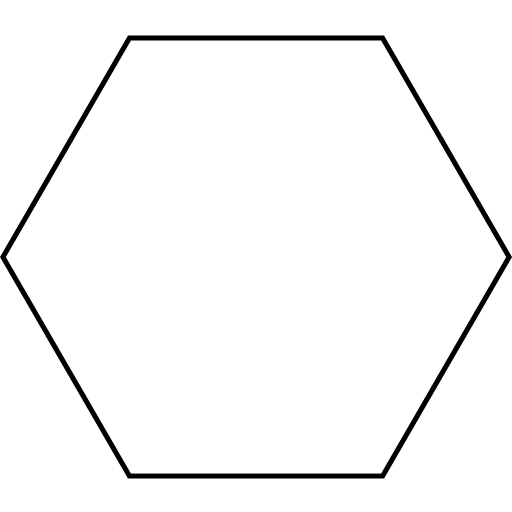
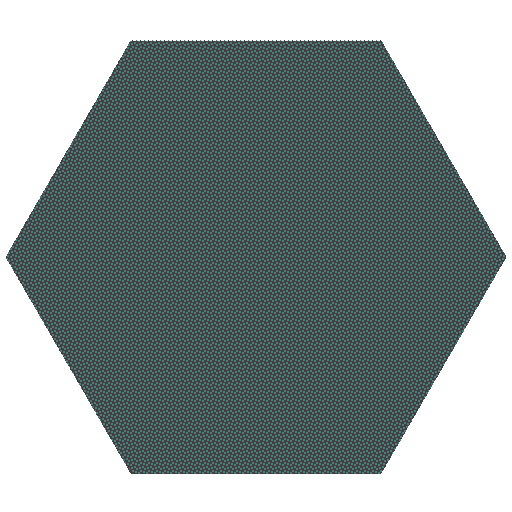
I'm so tired please help

diff --git a/HuntTheWumpus/HuntTheWumpus/GameControl.cs b/HuntTheWumpus/HuntTheWumpus/GameControl.cs
@@ -17,12 +17,13 @@ namespace HuntTheWumpus
     /// </summary>
     public class GameControl : Microsoft.Xna.Framework.GameComponent
     {
-        public static Point[] vertices = { new Point(130, 3), new Point(380, 3), new Point(509, 221), new Point(380, 374), new Point(130, 374), new Point(4, 206) };
+        public static Point[] vertices = { new Point(4, 256), new Point(130, 38), new Point(380, 38), new Point(509, 256), new Point(380, 474), new Point(130, 474)};
         public static List<RoomImage> roomImages;
         public static Game game;
         public static Cave cave;
         public static Player player = new Player(game);
 
+        Texture2D background;
         Texture2D introImage;
         Texture2D highscoreImage;
         public Texture2D arrow;
@@ -55,11 +56,14 @@ namespace HuntTheWumpus
                 for (int y = 0; y < cave.Height; y++) {
                     _position.X = (x * 380);
                     _position.Y = (y * 438) - ((x % 2) * 219);
-                    cave.Rooms[x,y].image = new RoomImage(_position,"Images/hex","Images/hex",game);
+                    cave.Rooms[x,y].image = new RoomImage(_position,"Images/hex","Images/hex2",game);
+                    cave.Rooms[x, y].image.setExits(cave.Rooms[x, y].Exits);
                     roomImages.Add(cave.Rooms[x, y].image);
                 }
 
             }
+
+            cave.Rooms[cave.currentRoom.X, cave.currentRoom.Y].image.revealed = true;
 
             base.Initialize();
         }
@@ -76,7 +80,7 @@ namespace HuntTheWumpus
             // TODO: Add your update code here
             player.speed.X = 0;
             player.speed.Y = 0;
-            
+
 
 
             // Check for keyboard input
@@ -84,22 +88,18 @@ namespace HuntTheWumpus
             if (Input.isKeyDown(Keys.Left))
             {
                 player.speed.X -= 3;
-                player.position.X += player.speed.X;
             }
             if (Input.isKeyDown(Keys.Right))
             {
                 player.speed.X += 3;
-                player.position.X += player.speed.X;
             }
             if (Input.isKeyDown(Keys.Up))
             {
                 player.speed.Y -= 3;
-                player.position.Y += player.speed.Y;
             }
             if (Input.isKeyDown(Keys.Down))
             {
                 player.speed.Y += 3;
-                player.position.Y += player.speed.Y;
             }
 
             // if user presses buy arrows, get 3 questions from Trivia
@@ -124,19 +124,43 @@ namespace HuntTheWumpus
             // Update all the game objects
             // Send these updates to GUI to be drawn
 
+            player.position += player.speed;
+            
+
+
+            Point lastpoint;
+            Point thispoint;
+
+            thispoint = vertices[5];
+            for (int i = 0; i < 6; i++) {
+                lastpoint = new Point(thispoint.X, thispoint.Y);
+                thispoint = vertices[i];
+                Console.WriteLine(i);
+                if (player.checkCollision(lastpoint, thispoint)) {
+                    if (cave.Rooms[cave.currentRoom.X, cave.currentRoom.Y].image.edgeDraws[i] == true) {
+                        player.resolveCollision(lastpoint, thispoint);
+                    }
+                    else if (cave.Rooms[cave.currentRoom.X, cave.currentRoom.Y].image.edgeDraws[i] != true) {
+                        
+                    }
+                }
+            }
             player.Update(gameTime);
-            foreach (RoomImage i in roomImages){
+            foreach (RoomImage i in roomImages) {
                 i.Update();
             }
-            base.Update(gameTime);
+
+
+                base.Update(gameTime);
         }
 
         public void Draw(SpriteBatch spriteBatch)
         {
-            player.Draw(spriteBatch);
+            spriteBatch.Draw(background, new Vector2(), Color.White);
             foreach (RoomImage i in roomImages) {
                 i.Draw(spriteBatch);
             }
+            player.Draw(spriteBatch);
         }
 
 
@@ -146,6 +170,7 @@ namespace HuntTheWumpus
             introImage = content.Load<Texture2D>(@"Images/MainMenu");
             highscoreImage = content.Load<Texture2D>(@"Images/Highscores");
             arrow = content.Load<Texture2D>(@"Images/ArrowSprite");
+            background = content.Load<Texture2D>(@"Images/SpaceBackground");
             player.LoadContent(content);
             foreach (RoomImage i in roomImages) {
                 i.LoadContent(content);

diff --git a/HuntTheWumpus/HuntTheWumpus/Player.cs b/HuntTheWumpus/HuntTheWumpus/Player.cs
@@ -92,36 +92,35 @@ namespace HuntTheWumpus
                         playerCurrentFrame.Y = 0;
                 }
             }
+
+            playerHitBox.X = (int)position.X;
+            playerHitBox.Y = (int)position.Y + 25;
             base.Update(gameTime);
         }
 
-        public bool checkLineCollision(Point l1p1, Point l1p2) {
+        public void resolveCollision(Point l1p1, Point l1p2) {
+            for (float i = 0; i < 1; i += 0.1f) {
+                float dx = speed.X * -1 * i;
+                float dy = speed.Y * -1 * i;
+                position.X += dx;
+                position.Y += dy;
+                playerHitBox.X = (int)position.X;
+                playerHitBox.Y = (int)position.Y + 25;
+                if (!checkCollision(l1p1, l1p2)) {
+                    break;
+                }
+
+            }
+        }
+
+        public bool checkCollision(Point l1p1, Point l1p2) {
             //l1p1 = line 1 point 1
             //l1p2 = line 1 point 2
 
-            if (checkTwoLines(l1p1, l1p2, new Point(playerHitBox.X, playerHitBox.Y), new Point(playerHitBox.X + playerHitBox.Width, playerHitBox.Y)) ||
-                checkTwoLines(l1p1, l1p2, new Point(playerHitBox.X + playerHitBox.Width, playerHitBox.Y), new Point(playerHitBox.X + playerHitBox.Width, playerHitBox.Y + playerHitBox.Height)) ||
-                checkTwoLines(l1p1, l1p2, new Point(playerHitBox.X + playerHitBox.Width, playerHitBox.Y + playerHitBox.Height), new Point(playerHitBox.X, playerHitBox.Y + playerHitBox.Height)) ||
-                checkTwoLines(l1p1, l1p2, new Point(playerHitBox.X, playerHitBox.Y + playerHitBox.Height), new Point(playerHitBox.X, playerHitBox.Y))
-                ) {
-                return true;
-            }
-            else {
-                return false;
-            }
+            return LineIntersectsRect(l1p1, l1p2, playerHitBox);
 
         }
 
-        private bool checkTwoLines(Point l1p1, Point l1p2, Point l2p1, Point l2p2) {
-            int slope = (l1p2.Y - l1p1.Y) / (l1p2.X - l1p2.X);
-
-            if ((l2p1.Y > l1p1.Y + slope * (l2p1.X - l1p1.X)) != (l2p2.Y > l1p1.Y + slope * (l2p2.X - l1p1.X))) {
-                return true;
-            }
-            else {
-                return false;
-            }
-        }
 
         public void Draw(SpriteBatch spriteBatch)
         {
@@ -156,6 +155,34 @@ namespace HuntTheWumpus
                     Color.White, 0, Vector2.Zero,
                     1, SpriteEffects.None, 1);
             }
+        }
+
+        private static bool LineIntersectsRect(Point p1, Point p2, Rectangle r) {
+            return LineIntersectsLine(p1, p2, new Point(r.X, r.Y), new Point(r.X + r.Width, r.Y)) ||
+                   LineIntersectsLine(p1, p2, new Point(r.X + r.Width, r.Y), new Point(r.X + r.Width, r.Y + r.Height)) ||
+                   LineIntersectsLine(p1, p2, new Point(r.X + r.Width, r.Y + r.Height), new Point(r.X, r.Y + r.Height)) ||
+                   LineIntersectsLine(p1, p2, new Point(r.X, r.Y + r.Height), new Point(r.X, r.Y)) ||
+                   (r.Contains(p1) && r.Contains(p2));
+        }
+
+        private static bool LineIntersectsLine(Point l1p1, Point l1p2, Point l2p1, Point l2p2) {
+            float q = (l1p1.Y - l2p1.Y) * (l2p2.X - l2p1.X) - (l1p1.X - l2p1.X) * (l2p2.Y - l2p1.Y);
+            float d = (l1p2.X - l1p1.X) * (l2p2.Y - l2p1.Y) - (l1p2.Y - l1p1.Y) * (l2p2.X - l2p1.X);
+
+            if (d == 0) {
+                return false;
+            }
+
+            float r = q / d;
+
+            q = (l1p1.Y - l2p1.Y) * (l1p2.X - l1p1.X) - (l1p1.X - l2p1.X) * (l1p2.Y - l1p1.Y);
+            float s = q / d;
+
+            if (r < 0 || r > 1 || s < 0 || s > 1) {
+                return false;
+            }
+
+            return true;
         }
     }
 }

diff --git a/HuntTheWumpus/HuntTheWumpus/RoomImage.cs b/HuntTheWumpus/HuntTheWumpus/RoomImage.cs
@@ -17,7 +17,12 @@ namespace HuntTheWumpus {
         private string _asset2;
         private Texture2D texture;
         private Texture2D texture2;
+        private Texture2D baseEdge;
+        private Texture2D[] edges;
         private Texture2D graphic;
+        private Texture2D corners;
+        private Cave.Room.Exit[] exits;
+        public bool[] edgeDraws;
         public bool revealed = false;
 
         public RoomImage(Vector2 Pos, string asset1, string asset2, Game game)
@@ -25,12 +30,51 @@ namespace HuntTheWumpus {
             Position = Pos;
             _asset1 = asset1;
             _asset2 = asset2;
+            edges = new Texture2D[6];
+            edgeDraws = new bool[6];
+            for (int i = 0; i < 6; i++) {
+                edgeDraws[i] = true;
+            }
+        }
+
+        public void setExits(Cave.Room.Exit[] exit) {
+            exits = exit;
+            foreach (Cave.Room.Exit e in exits) {
+                switch (e) {
+                    case Cave.Room.Exit.BL:
+                        edgeDraws[0] = false;
+                        break;
+                    case Cave.Room.Exit.TL:
+                        edgeDraws[1] = false;
+                        break;
+                    case Cave.Room.Exit.TM:
+                        edgeDraws[2] = false;
+                        break;
+                    case Cave.Room.Exit.TR:
+                        edgeDraws[3] = false;
+                        break;
+                    case Cave.Room.Exit.BR:
+                        edgeDraws[4] = false;
+                        break;
+                    case Cave.Room.Exit.BM:
+                        edgeDraws[5] = false;
+                        break;
+                }
+            }
         }
 
         public void LoadContent(ContentManager content) {
             texture = content.Load<Texture2D>(_asset1);
             texture2 = content.Load<Texture2D>(_asset2);
+            baseEdge = content.Load<Texture2D>("images/baseHex");
+            edges[0] = content.Load<Texture2D>("images/hexBL");
+            edges[1] = content.Load<Texture2D>("images/hexTL");
+            edges[2] = content.Load<Texture2D>("images/hexTM");
+            edges[3] = content.Load<Texture2D>("images/hexTR");
+            edges[4] = content.Load<Texture2D>("images/hexBR");
+            edges[5] = content.Load<Texture2D>("images/hexBM");
             graphic = texture;
+            corners = content.Load<Texture2D>("images/TopHex");
         }
 
         public void Update() {
@@ -42,7 +86,14 @@ namespace HuntTheWumpus {
             }
         }
         public void Draw(SpriteBatch spriteBatch) {
+            spriteBatch.Draw(baseEdge, Position, Color.White);
             spriteBatch.Draw(graphic, Position, Color.White);
+            for (int i = 0; i < 6; i++) {
+                if (edgeDraws[i]) {
+                    spriteBatch.Draw(edges[i], Position, Color.White);
+                }
+            }
+            spriteBatch.Draw(corners, Position, Color.White);
         }
         
     }

diff --git a/HuntTheWumpus/HuntTheWumpus/Cave.cs b/HuntTheWumpus/HuntTheWumpus/Cave.cs
@@ -4,6 +4,7 @@ using System.Linq;
 using System.Text;
 using System.Threading.Tasks;
 using System.IO;
+using Microsoft.Xna.Framework;
 
 namespace HuntTheWumpus
 {
@@ -33,6 +34,7 @@ namespace HuntTheWumpus
             /// 3 exits per room, can leave some as Exit.NONE if necessary
             /// </summary>
             public Exit[] Exits = new Exit[3];
+
             public RoomImage image;
 
             public ushort X { get; private set; }
@@ -143,6 +145,7 @@ namespace HuntTheWumpus
         public ushort Width { get; private set; } 
         public ushort Height { get; private set; }
 
+        public Point currentRoom = new Point(0, 0); 
         public string Filename { get; private set; }
 
         public Room[,] Rooms;

diff --git a/HuntTheWumpus/HuntTheWumpus/Game1.cs b/HuntTheWumpus/HuntTheWumpus/Game1.cs
@@ -13,6 +13,7 @@ namespace HuntTheWumpus
 {
     public class Game1 : Microsoft.Xna.Framework.Game
     {
+        
         GraphicsDeviceManager graphics;
         public static SpriteBatch spriteBatch;
         public static Game game;
